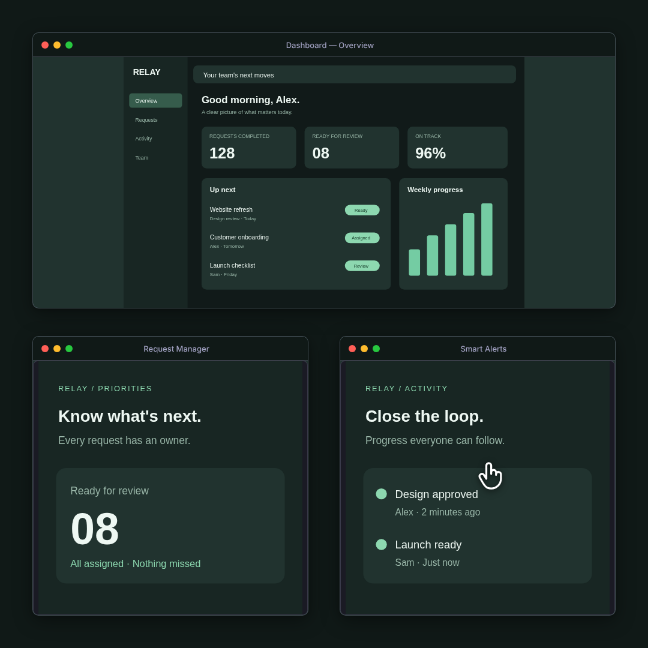
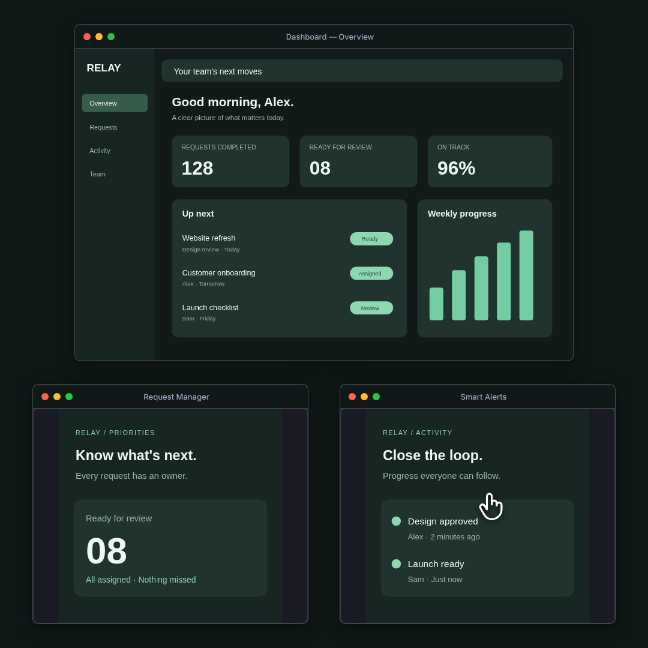
Record sizing verification and generate the finished preview in CI

diff --git a/ROADMAP.md b/ROADMAP.md
@@ -7,9 +7,9 @@ Active goal: close the November 2026 audit findings and make the first customize
 | M1 — Reliable saving | Fix reducer contract; preserve consecutive edits; show save errors; remove backup server and unused defaults | Persistence regression tests, typecheck | Verified locally |
 | M2 — Real product content | Render imported descriptors; screenshot/recording inputs with focus and fit; validate imports before writing | Import-to-scene integration checks; real media preview | Verified with component tests and media frames |
 | M3 — Consistent controls | Shared scene configuration; scene-relative cursor actions; linked UI responses; theme/fonts/logo/CTA/easing; global SFX policy | Retiming/removal/control regressions and rendered frames | Verified with regressions and frame renders |
-| M4 — Useful outputs | Feature announcement, walkthrough, before/after presets; landscape/portrait/square layouts; text fit and content warnings | Three exported examples, representative format frames | Initial exports passed; sizing correction under review |
-| M5 — Verified first-use workflow | Save/reload/render tests; resolve failing waypoint expectation; single-worker CI; clean-install and render smoke checks | Passing checks and recorded visual review | Clean install and hosted exports passed; sizing regressions added |
-| M6 — Discovery and release | Outcome-led README; exact quickstart; tutorials; showcase/help forms; demo assets; changelog; release and GitHub metadata preparation | Links and instructions checked; concrete publication bundle | Docs and release materials in progress |
+| M4 — Useful outputs | Feature announcement, walkthrough, before/after presets; landscape/portrait/square layouts; text fit and content warnings | Three exported examples, representative format frames | Verified after sizing correction |
+| M5 — Verified first-use workflow | Save/reload/render tests; resolve failing waypoint expectation; single-worker CI; clean-install and render smoke checks | Passing checks and recorded visual review | Clean install, 553 tests and full exports passed |
+| M6 — Discovery and release | Outcome-led README; exact quickstart; tutorials; showcase/help forms; demo assets; changelog; release and GitHub metadata preparation | Links and instructions checked; concrete publication bundle | Prepared; final preview refresh in progress |
 
 Process discipline: one project stack and one automation browser maximum; preserve unrelated services; close owned processes after each verification. Publication follows a concrete, verified local release.
 
@@ -28,7 +28,7 @@ Process discipline: one project stack and one automation browser maximum; preser
 - The baseline failed waypoint expectation was confirmed as the public CI failure via GitHub check annotations. Future click targets intentionally remain editable before their entrance.
 - Landscape, portrait and square frames rendered and were visually inspected; this exposed and fixed off-canvas geometry and unreadable repeated dashboards.
 - Full local exports encountered Remotion's bundled FFmpeg/macOS 12.5 incompatibility. Hosted Linux CI now renders all three videos including audio; the initial run passed at https://github.com/codeverbojan/remotion-cinematic/actions/runs/41846593463.
-- User review found stretched windows and undersized UI. Window ratios are now preserved, interface typography scales with geometry, and new aspect-ratio tests cover all three formats. Revised full exports are pending.
+- User review found stretched windows and undersized UI. Window ratios are now preserved, interface typography scales with geometry, and new aspect-ratio tests cover all three formats. Revised full exports and actual recording input passed in [CI run 41849106892](https://github.com/codeverbojan/remotion-cinematic/actions/runs/41849106892). Corrected frames were inspected for proportions, readable content and clipping.
 - Temporary renderer browsers and servers were closed; unrelated services remain untouched.
 
 ## Next feature work (outside this reliability release)

diff --git a/CHANGELOG.md b/CHANGELOG.md
@@ -9,6 +9,7 @@ A reliable path from a preset and real product content to a saved, customized ex
 - Render imported descriptors, screenshots and muted recordings in product scenes, including per-feature media and crop controls.
 - Connect scene duration, overlap, transitions and backgrounds to saved configuration. Store cursor actions relative to their scene; derive panel responses from edited click times.
 - Apply brand colors, fonts, logo, CTA, easing and a shared SFX master. Load only required font weights/subsets.
+- Preserve window proportions across output formats and scale descriptor typography with window geometry.
 - Add 15s feature, 30s walkthrough and 20s before/after presets, three output formats, focused feature content, headline fitting and content warnings.
 - Validate all descriptor imports; add offline JSON import and a configurable Anthropic model.
 - Remove the unused defaults file and backup prop server. Replace misleading “e2e” naming with wiring tests; add native writer, component and render verification.

diff --git a/examples/README.md b/examples/README.md
@@ -27,4 +27,6 @@ npm run studio
 
 The Relay screenshots live in `public/screenshots/`. Replace them with your real UI. Use separate feature details to avoid repeating a small, unreadable dashboard in every window.
 
+After a full export, `node scripts/make-preview.mjs` creates a compact finished-video GIF in `out/verification/`; review it and the PNGs before copying them into `docs/assets/`. CI uploads these outputs as an artifact.
+
 To regenerate these JSON fixtures after changing preset code, run `npm run examples`. Re-render and review the images before updating the gallery.
